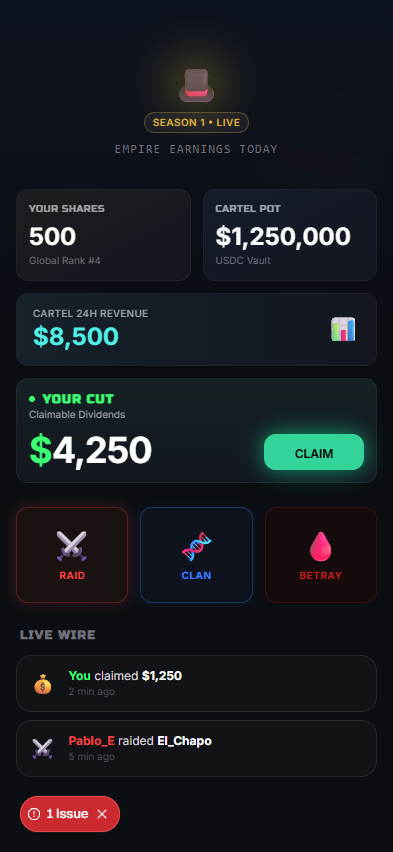
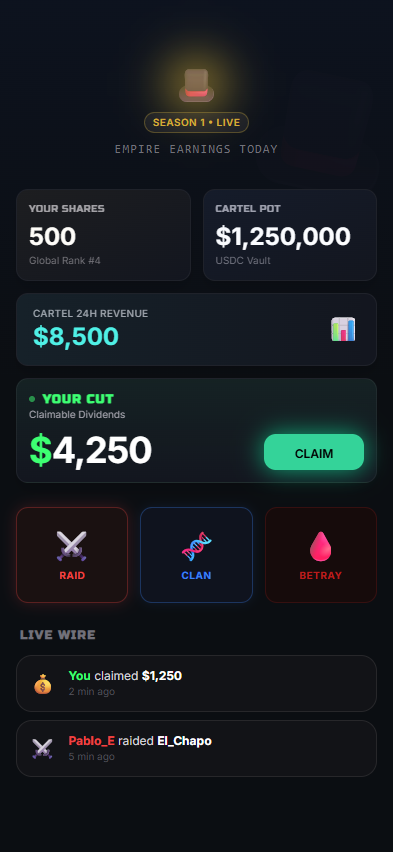
Assets: Update screenshots with clean capture (no dev overlay)

Changed region(s): [[0.0305, 0.9155, 0.3053, 0.9765], [0.4275, 0.061, 0.5802, 0.1526], [0.0611, 0.4577, 0.0916, 0.4883]]

diff --git a/scripts/capture_screenshots.js b/scripts/capture_screenshots.js
@@ -12,7 +12,6 @@ async function capture() {
 
         await page.setViewport({ width: 393, height: 852, deviceScaleFactor: 1 });
 
-        // Try both localhost and 127.0.0.1 just in case
         const screens = [
             { name: 'dashboard_preview', url: 'http://localhost:3000/screens/dashboard' },
             { name: 'raid_preview', url: 'http://localhost:3000/screens/raid' },
@@ -34,6 +33,21 @@ async function capture() {
                 const response = await page.goto(screen.url, { waitUntil: 'domcontentloaded', timeout: 120000 });
                 console.log(`Response status: ${response ? response.status() : 'null'}`);
 
+                // Inject CSS to hide Next.js error overlay and toasts
+                await page.addStyleTag({
+                    content: `
+                        nextjs-portal,
+                        #nextjs-error-overlay,
+                        [data-nextjs-toast],
+                        [data-nextjs-dialog-overlay],
+                        .nextjs-toast-errors-parent {
+                            display: none !important;
+                            visibility: hidden !important;
+                            opacity: 0 !important;
+                        }
+                    `
+                });
+
                 await new Promise(r => setTimeout(r, 2000));
 
                 const outPath = path.join(outDir, `${screen.name}.png`);
@@ -41,7 +55,6 @@ async function capture() {
                 console.log(`Saved ${outPath}`);
             } catch (e) {
                 console.error(`FAILED to capture ${screen.name}:`, e.message);
-                // Fallback to localhost if 127 failed?
             }
         }
     } catch (err) {
